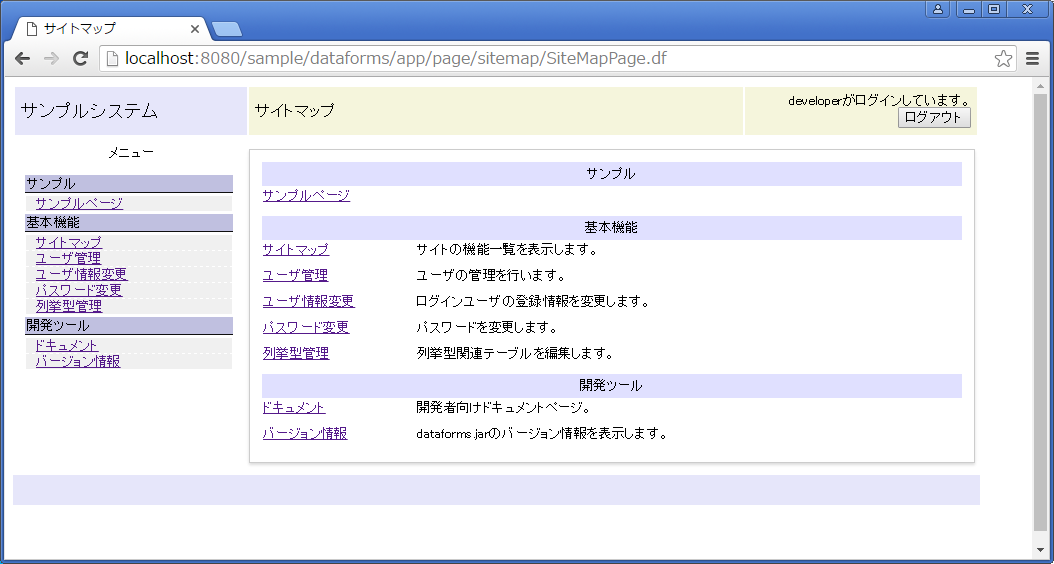
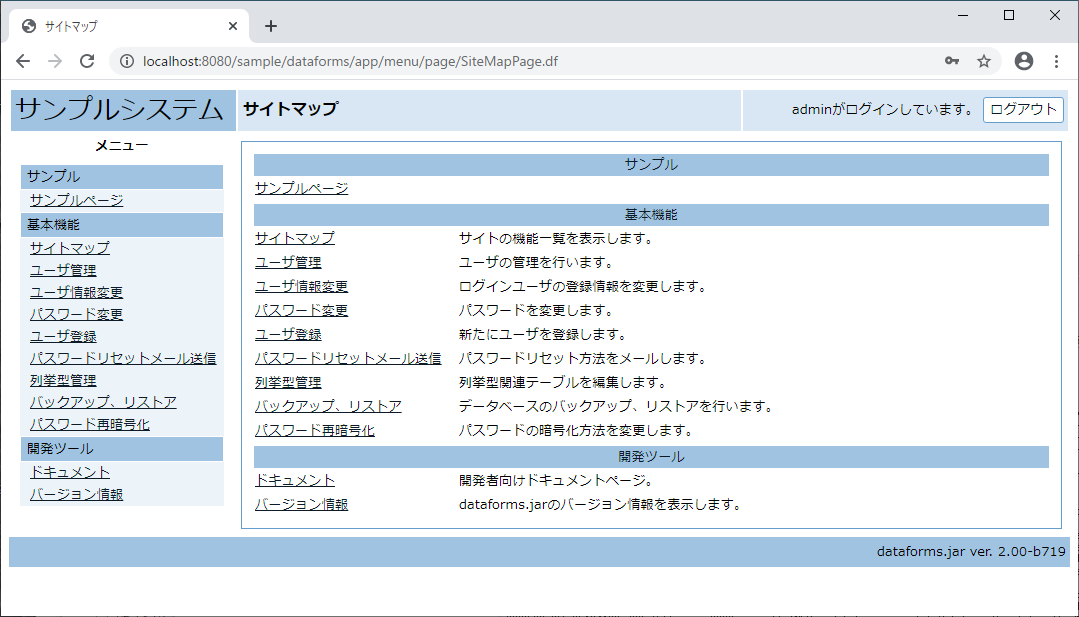
ドキュメントの更新。

diff --git a/HTML/META-INF/resources/doc/04.deploy/deploy.html b/HTML/META-INF/resources/doc/04.deploy/deploy.html
@@ -22,8 +22,8 @@
 		<h3>DB初期化データのエクスポート</h3>
 		<p>
 			dataforms.appパッケージには、いくつかのテーブルが定義されています。
-			これらのテーブルは、データベースの構築時に自動的に作成され、初期データも登録されます。
-			初期データもまたdataforms.jarの中に含まれていますが、今回の作業でデータが追加されています。
+			これらのテーブルは、データベースの構築時に自動的に作成され、サンプルの初期データも登録されます。
+			この初期データもまたdataforms2.jarの中に含まれていますが、今回の作業でデータが追加されています。
 		</p>
 		<p>
 			開発の初期段階で機能を追加しましたが、これは、FunctionTableへのデータ追加になります。
@@ -33,6 +33,10 @@
 		<p>
 			「テーブル管理」を使用しdataforms.appパッケージ中のテーブルを検索し、FunctionTableとEnum*Tableをチェックし、
 			「初期化データとしてエクスポート」ボタンを押下します。
+		</p>
+		<p class="topic">
+			開発時にユーザを登録しそれをアプリケーションの初期化データとして使用したい場合は、ユーザ関連のテーブルもエクスポートしてください。
+			warファイル中にユーザ関連の初期化データが存在した場合、DBの初期化時にユーザ情報を使用する・しないを切り替えることができるようになっています。
 		</p>
 		<figure>
 			<figcaption>初期化データのエクスポートの操作</figcaption>
@@ -52,10 +56,10 @@
 		</p>
 		<h3>サーバログの設定</h3>
 		<p>
-			dataforms.jarが出力するサーバログは、log4jを使用しています。
-			プロジェクトのsrcフォルダにはlog4j.xmlがありますので、それを適切に設定してください。
-			開発時のlog4j.xmlには、コンソールにDEBUGログを出力していますので、これを削除しておくことをお勧めします。
-			詳細はlog4jのドキュメントを参照してください。
+			dataforms2.jarが出力するサーバログは、log4j2を使用しています。
+			プロジェクトのsrcフォルダにはlog4j2.xmlがありますので、それを適切に設定してください。
+			開発時のlog4j2.xmlには、コンソールにDEBUGログを出力していますので、これを削除しておくことをお勧めします。
+			詳細はlog4j2のドキュメントを参照してください。
 		</p>
 		<h3>jsonの整形停止</h3>
 		<p>
@@ -74,8 +78,8 @@
 		</div>
 		<h3>クライアントログの設定</h3>
 		<p>
-			dataforms.jarでは、Javascriptのconsoleをラップしたloggerという変数を用意しています。
-			dataforms.jarの*.jsでは、常にloggerを使って、コンソール出力を行っています。
+			dataforms2.jarでは、Javascriptのconsoleをラップしたloggerという変数を用意しています。
+			dataforms2.jarの*.jsでは、常にloggerを使って、コンソール出力を行っています。
 			loggerを使用していれば、以下のweb.xmlの設定でログの出力レベルを調整することができます。
 			デフォルトではdebugになっているので、リリース時にはinfo以上にすることをお勧めします。
 		</p>
@@ -141,7 +145,7 @@
 		&lt;/param-value&gt;
 	&lt;/context-param&gt;
 			</pre>
-		</div>	
+		</div>
 		<h3>初期化時に作成するユーザレベルの設定</h3>
 		<p>
 			データベースの初期化時には、管理者(admin)または開発者(developer)レベルのユーザを1件登録します。
@@ -153,7 +157,7 @@
 		<div class="filecaption">初期化時に作成するユーザレベルの設定(web.xml)</div>
 		<div class="wrappre">
 			<pre>
-	&lt;!-- 
+	&lt;!--
 		データベース初期化時に作成するユーザのレベルを指定します。
 	 --&gt;
 	&lt;context-param&gt;
@@ -165,14 +169,11 @@
 		--&gt;
 	&lt;/context-param&gt;
 			</pre>
-		</div>	
-
-
+		</div>
 		<p class="topic">
-			dataforms.jarの各種設定は、web.xmlにまとまっています。
+			dataforms2.jarの各種設定は、web.xmlにまとまっています。
 			この他の項目は、web.xml中のコメントを参照し、適切に設定してください。
 		</p>
-		
 		<h3>WARファイルの作成</h3>
 		<p>
 			WARファイルは、EclipseのWARエクスポート機能で簡単に作成することができます。
@@ -183,15 +184,19 @@
 			<figcaption>WARファイルのエクスポート</figcaption>
 			<img src="warexp.png" style="width:50%; height:50%;"/>
 		</figure>
-		<h2>デプロイ</h2>
-		<h3>Tomcat8の設定</h3>
 		<p>
-			dataforms.jarで作成されたアプリケーションを動作させるには、Java8とServlet3.0に対応したアプリケーションサーバが必要です。
-			Java8+Tomcat8が稼働したサーバを用意してください。
+			この時ソースファイルのエクスポートにチェックを入れておくと、*.warファイル中にJavaのソースファイルも出力されます。
+			こうしておくと*.warファイルをeclipseにインポートするだけでeclipseのプロジェクトになります。
+		</p>
+		<h2>デプロイ</h2>
+		<h3>Tomcat9の設定</h3>
+		<p>
+			dataforms2.jarで作成されたアプリケーションを動作させるには、Java11とServlet3.0に対応したアプリケーションサーバが必要です。
+			Java11+Tomcat9が稼働したサーバを用意してください。
 		</p>
 		<p>
-			Tomcat8にはApache DerbyのJDBCドライバderby.jarとderbyLocale_ja_JP.jarをインストールしてください。
-			$TOMCAT_HOME/libに、この2つのjarファイルをコピーするだけで完了です。
+			Tomcat9にはApache DerbyのJDBCドライバやJava mailをインストールする必要があります。
+			「2.開発環境構築」の「2.2.データベースを用意する」と「2.3.Java mailのインストール」を参考にインストールを行ってください。
 		</p>
 		<h3>WARファイルのデプロイ</h3>
 		<p>
@@ -208,7 +213,7 @@
 			<img src="initapp1.png" style="width:50%; height:50%;"/>
 		</figure>
 		<p>
-			初期化の完了後developerでログインすると、以下のように作成された機能を含むサイトマップが表示されます。
+			初期化の完了後adminでログインすると、以下のように作成された機能を含むサイトマップが表示されます。
 		</p>
 		<figure>
 			<figcaption>ログイン後のサイトマップ</figcaption>
